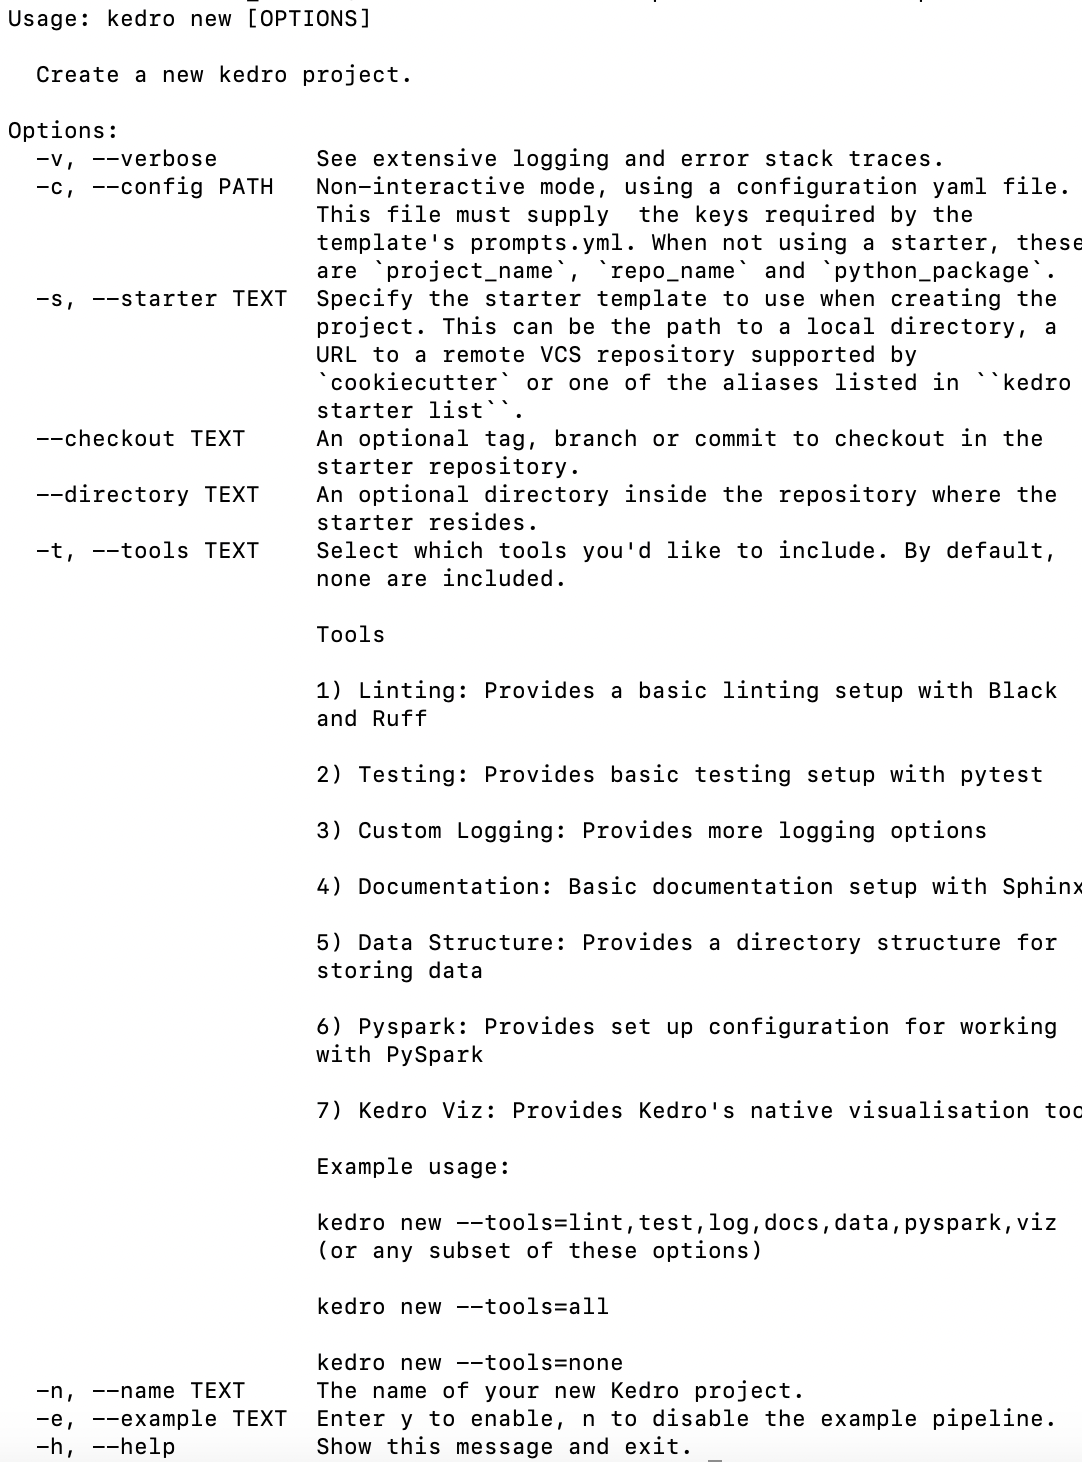
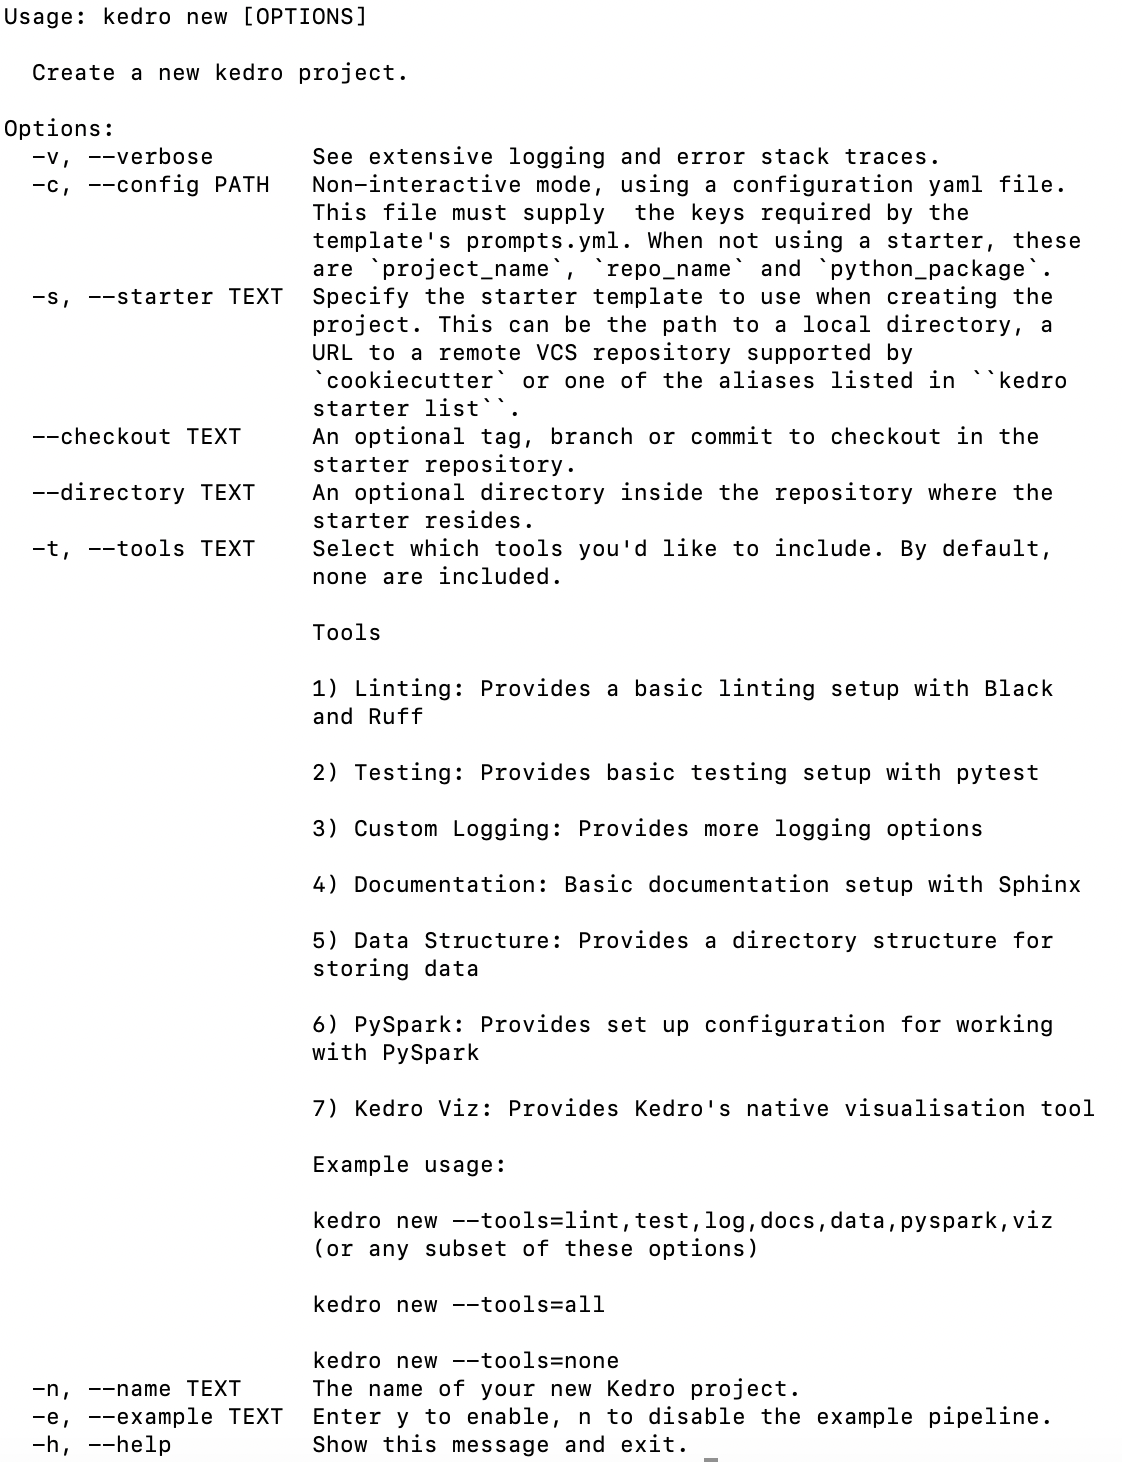
Update mentions of Pyspark to PySpark

diff --git a/kedro/framework/cli/starters.py b/kedro/framework/cli/starters.py
@@ -41,7 +41,7 @@ Tools\n
 3) Custom Logging: Provides more logging options\n
 4) Documentation: Basic documentation setup with Sphinx\n
 5) Data Structure: Provides a directory structure for storing data\n
-6) Pyspark: Provides set up configuration for working with PySpark\n
+6) PySpark: Provides set up configuration for working with PySpark\n
 7) Kedro Viz: Provides Kedro's native visualisation tool \n
 
 Example usage:\n
@@ -125,7 +125,7 @@ NUMBER_TO_TOOLS_NAME = {
     "3": "Custom Logging",
     "4": "Documentation",
     "5": "Data Structure",
-    "6": "Pyspark",
+    "6": "PySpark",
     "7": "Kedro Viz",
 }
 
@@ -633,11 +633,11 @@ def fetch_template_based_on_tools(template_path, cookiecutter_args: dict[str, An
     tools = extra_context.get("tools", [])
     example_pipeline = extra_context.get("example_pipeline", False)
     starter_path = "git+https://github.com/kedro-org/kedro-starters.git"
-    if "Pyspark" in tools and "Kedro Viz" in tools:
-        # Use the spaceflights-pyspark-viz starter if both Pyspark and Kedro Viz are chosen.
+    if "PySpark" in tools and "Kedro Viz" in tools:
+        # Use the spaceflights-pyspark-viz starter if both PySpark and Kedro Viz are chosen.
         cookiecutter_args["directory"] = "spaceflights-pyspark-viz"
-    elif "Pyspark" in tools:
-        # Use the spaceflights-pyspark starter if only Pyspark is chosen.
+    elif "PySpark" in tools:
+        # Use the spaceflights-pyspark starter if only PySpark is chosen.
         cookiecutter_args["directory"] = "spaceflights-pyspark"
     elif "Kedro Viz" in tools:
         # Use the spaceflights-pandas-viz starter if only Kedro Viz is chosen.
@@ -646,7 +646,7 @@ def fetch_template_based_on_tools(template_path, cookiecutter_args: dict[str, An
         # Use spaceflights-pandas starter if example was selected, but PySpark or Viz wasn't
         cookiecutter_args["directory"] = "spaceflights-pandas"
     else:
-        # Use the default template path for non Pyspark, Viz or example options:
+        # Use the default template path for non PySpark, Viz or example options:
         starter_path = template_path
     return starter_path
 

diff --git a/tests/framework/cli/test_starters.py b/tests/framework/cli/test_starters.py
@@ -81,7 +81,7 @@ def _get_expected_files(tools: str, example_pipeline: str):
         "3": 1,  # If Logging is selected, we add logging.py
         "4": 2,  # If Documentation is selected, we add conf.py and index.rst
         "5": 8,  # If Data Structure is selected, we add 8 .gitkeep files
-        "6": 2,  # If Pyspark is selected, we add spark.yml and hooks.py
+        "6": 2,  # If PySpark is selected, we add spark.yml and hooks.py
         "7": 0,  # Kedro Viz does not add any files
     }  # files added to template by each tool
     tools_list = _parse_tools_input(tools)

diff --git a/kedro/templates/project/hooks/utils.py b/kedro/templates/project/hooks/utils.py
@@ -170,7 +170,7 @@ def setup_template_tools(selected_tools_list: str, requirements_file_path: str, 
     if "Data Structure" not in selected_tools_list and example_pipeline != "True":
         _remove_dir(current_dir / "data")
 
-    if ("Pyspark" in selected_tools_list or "Kedro Viz" in selected_tools_list) and example_pipeline != "True":
+    if ("PySpark" in selected_tools_list or "Kedro Viz" in selected_tools_list) and example_pipeline != "True":
         _remove_pyspark_viz_starter_files("Kedro Viz" in selected_tools_list, python_package_name)
 
 
